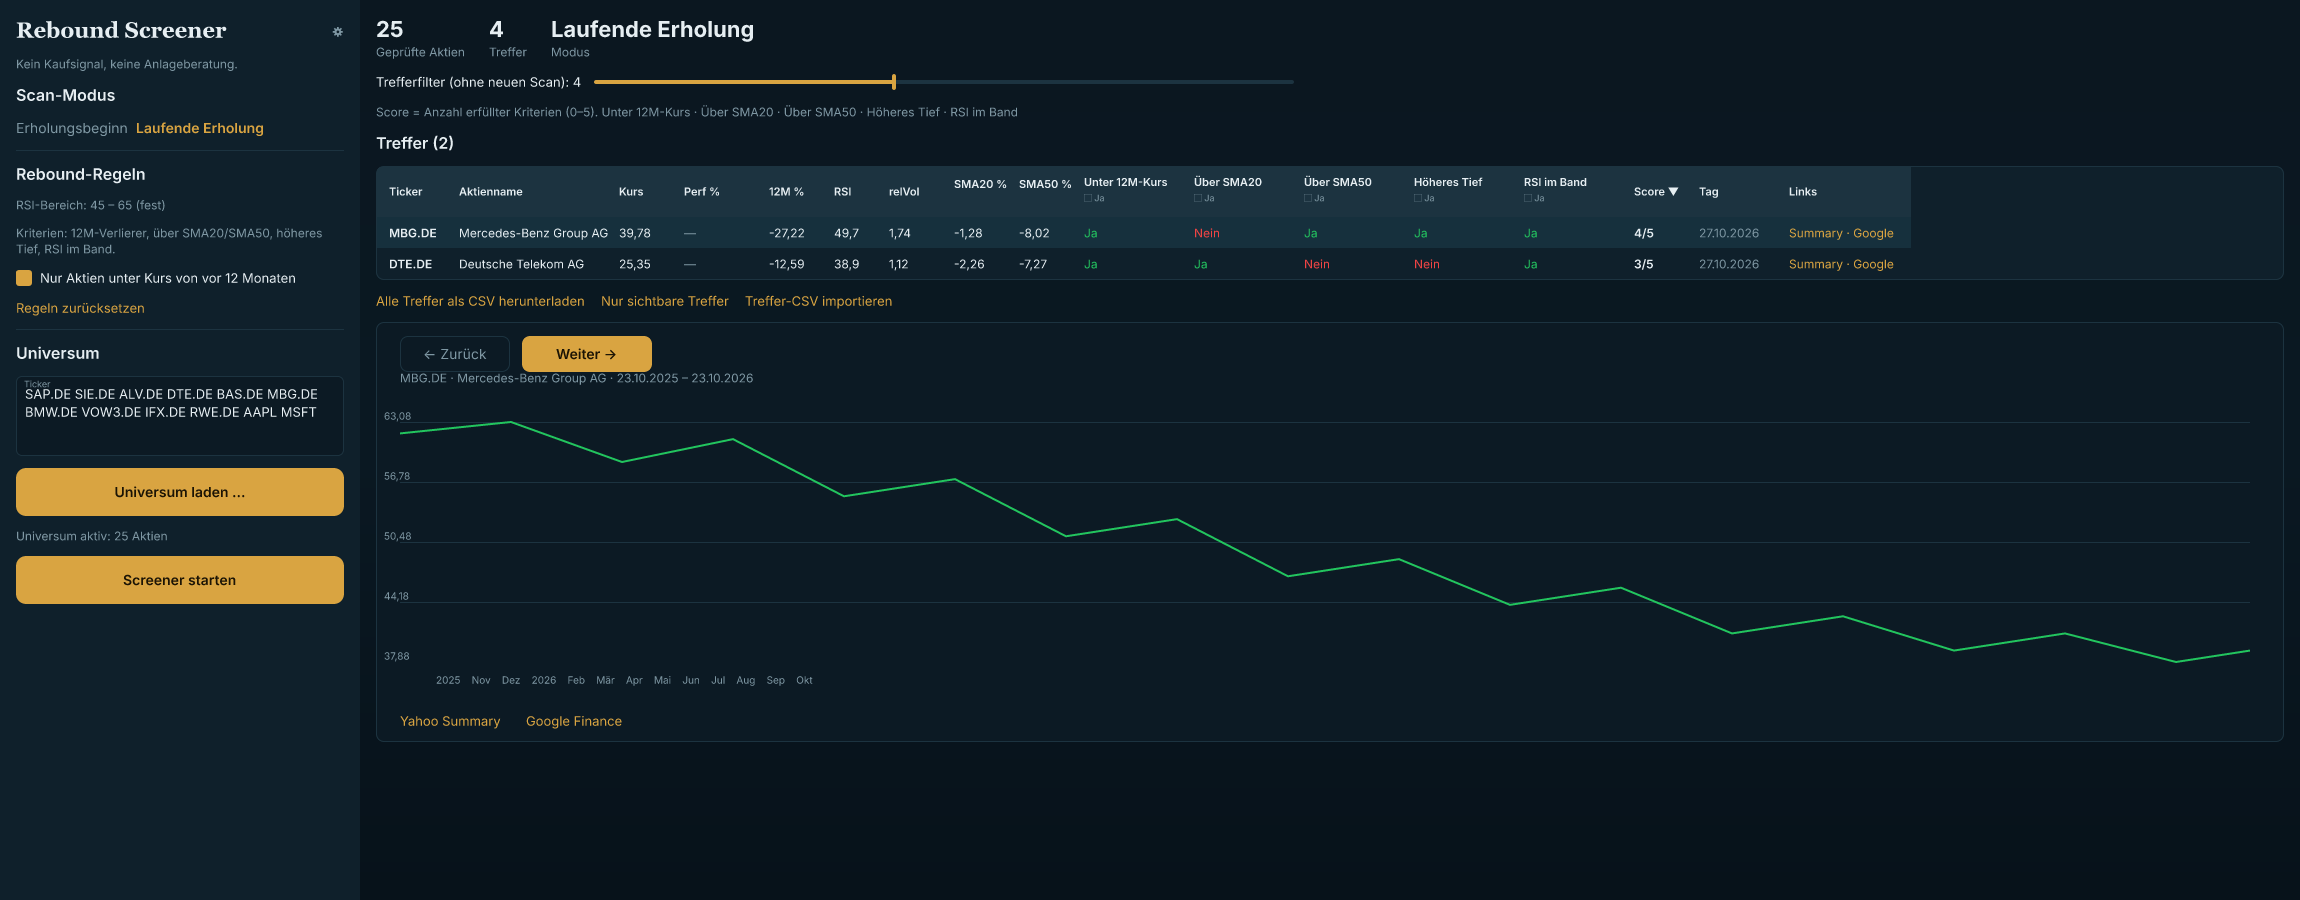
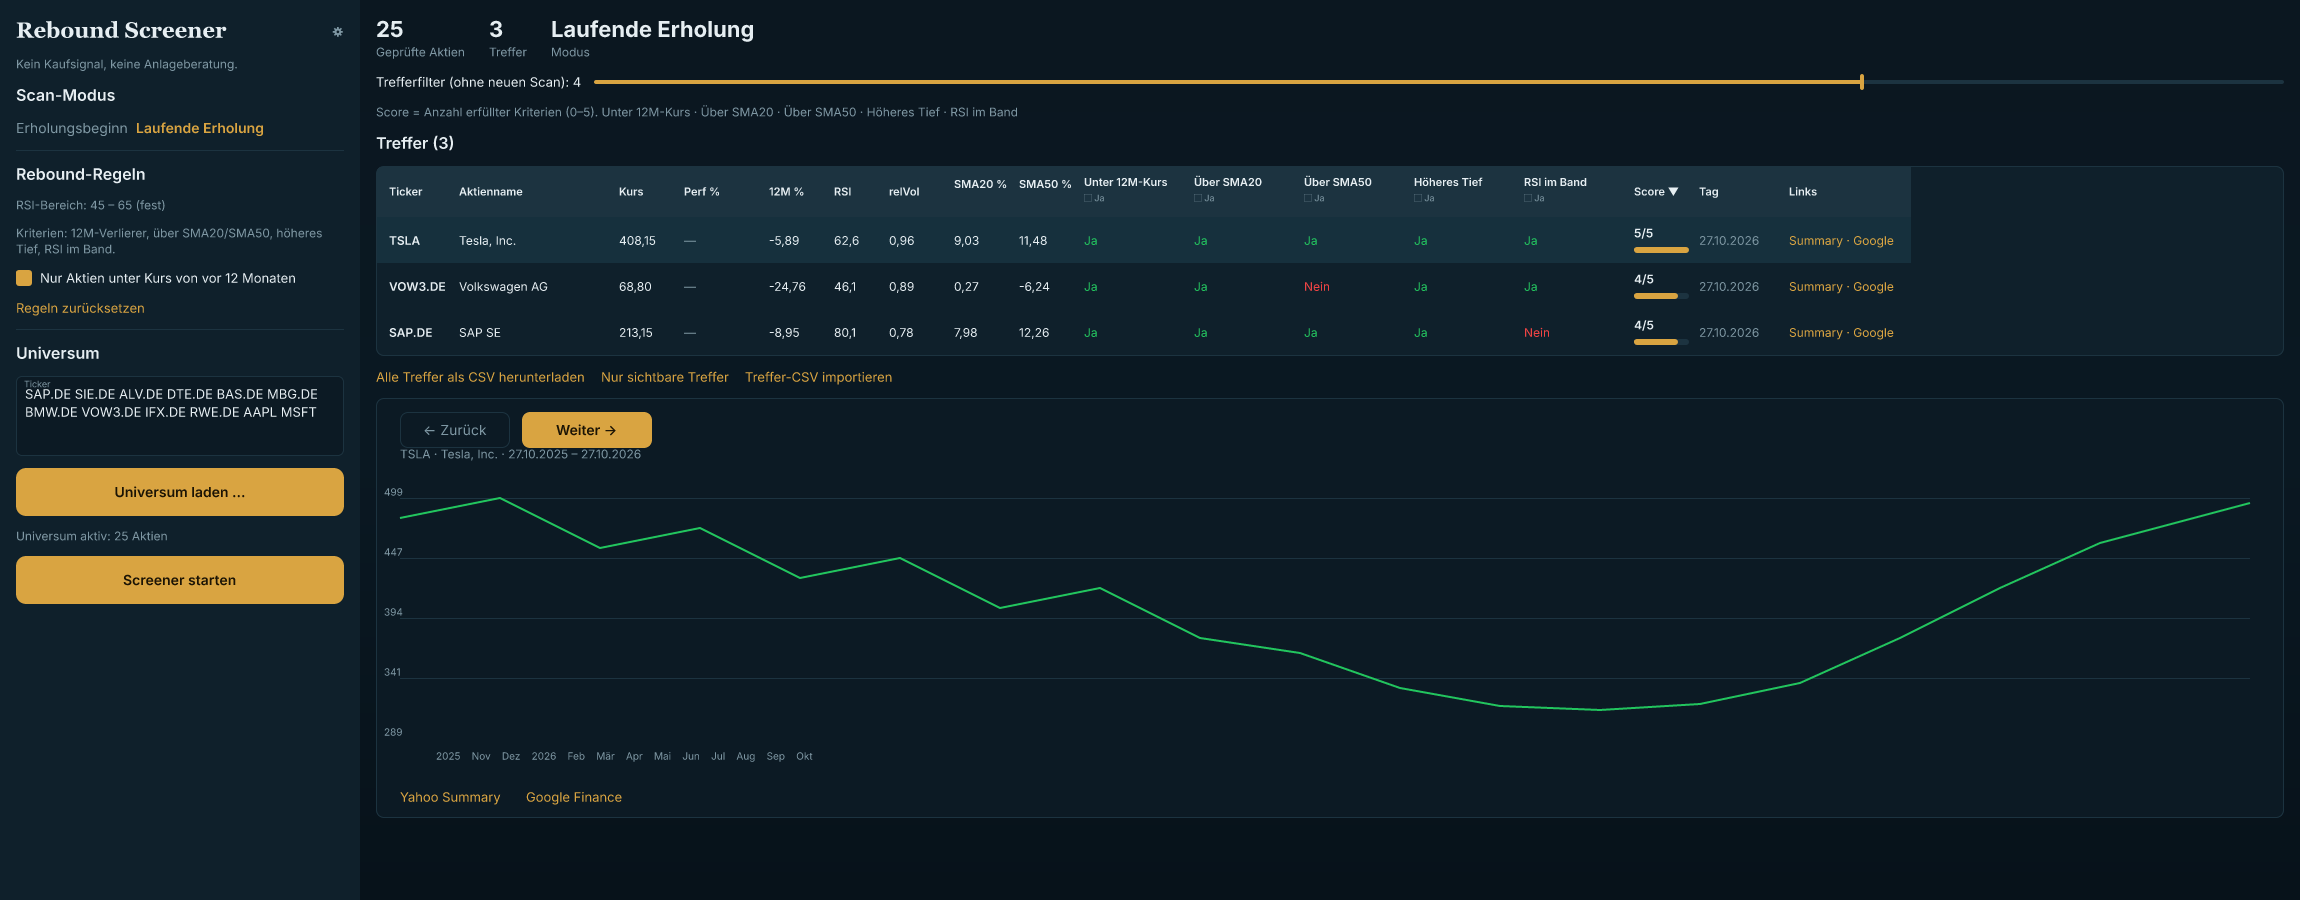
design/: Score-Balken und Modus-Details an die App angeglichen
- Score-Zelle zeigt jetzt den Messing-Fortschrittsbalken unter der Quote,
  wie ihn die App rendert (LinearProgressIndicator) - in beiden Modis
- Laufende Erholung: Beispieldaten der App (TSLA 5/5, VOW3.DE 4/5,
  SAP.DE 4/5), dritte Zeile, Kennzahlen und Ueberschrift auf 3 Treffer
- Chart auf TSLA umgestellt (Titel, Achsen 499..289, steigender Verlauf),
  Trefferfilter-Griff auf die Modus-Skala 1-5 gesetzt
- Im Vergleich mit der laufenden App geprueft, nicht nur aus dem Code entworfen

diff --git a/design/README.md b/design/README.md
@@ -84,6 +84,9 @@ Für die Anbindung per MCP (Agenten steuern FigCraft): siehe `AGENTS.md` bzw.
 | Score-Basis | 0–8 | 0–5 |
 | Spalte „Perf" | Wert über das Regler-Fenster, Kopf zeigt „Perf 30 T. %" | kein Wert („—"), Kopf „Perf %" |
 
+Die Score-Zelle zeigt in beiden Modi die Zahl **und** einen Messing-Fortschrittsbalken
+der Quote (z. B. 4/5 = 80 %) — so wie die App ihn rendert.
+
 ## Aktualisieren
 
 Farb-/Text-Stiles sind im Dokument angelegt (`Farbe/…`, `Typo/…`). Ändert sich das
